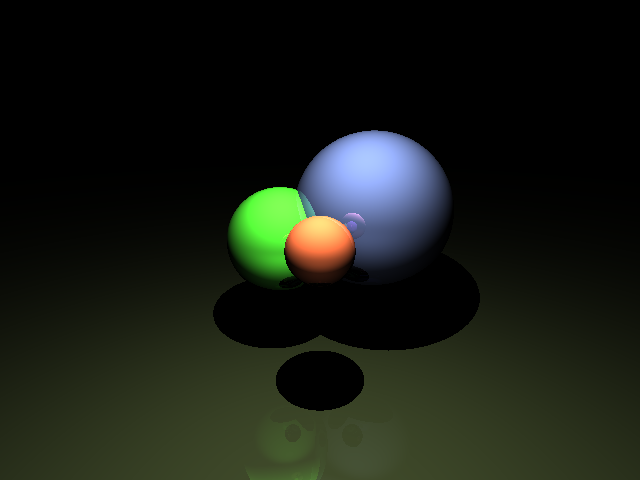
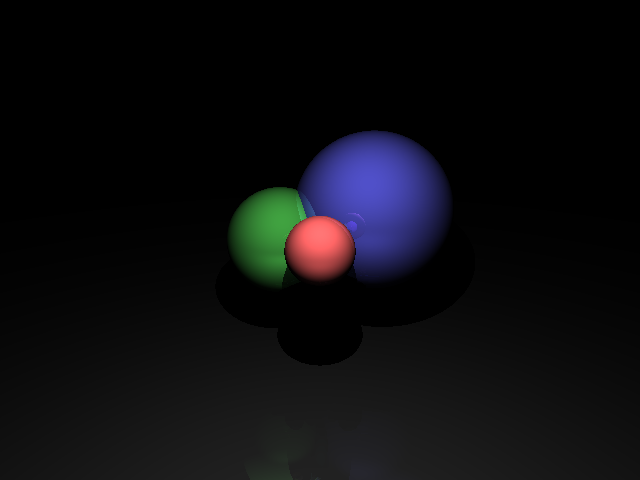
调整渲染示例中的场景参数

diff --git a/Test/Example/WhittedIntegrator/Main.cpp b/Test/Example/WhittedIntegrator/Main.cpp
@@ -28,7 +28,7 @@ int main()
     DiffuseMaterial matRed(  { 3.0f, 1.2f, 1.2f }),
                     matGreen({ 1.2f, 3.0f, 1.2f }),
                     matBlue( { 1.2f, 1.2f, 3.0f }),
-                    matWhite({ 1.2f, 1.2f, 1.2f });
+                    matWhite({ 1.0f, 1.0f, 1.0f });
 
     Sphere sphGround(1e5), sphRed(0.2), sphGreen(0.4), sphBlue(0.6);
 
@@ -37,7 +37,7 @@ int main()
                    entGreen (&sphGreen,  &matGreen, Transform(Mat4r::Translate({ 0.0, 0.3, 0.0 }))),
                    entBlue  (&sphBlue,   &matBlue,  Transform(Mat4r::Translate({ 0.1, -0.4, 0.2 })));
 
-    PointLight lightSkyblue({ 6.0f, 7.0f, 4.0f }, { -1.5, 0.0, 2.0 });
+    PointLight lightSkyblue({ 3.0f, 3.0f, 3.0f }, { -2.0, 0.0, 1.5 });
 
     SceneView scene;
     scene.camera = &camera;

diff --git a/Test/Example/AmbientIntegrator/Main.cpp b/Test/Example/AmbientIntegrator/Main.cpp
@@ -29,7 +29,7 @@ int main()
 
     Sphere sphGround(1e5), sphRed(0.2), sphGreen(0.4), sphBlue(0.6);
 
-    GeometryEntity entGround(&sphGround, &matWhite, Transform(Mat4r::Translate({ 0.0, 0.0, -1e5 - 5.0 }))),
+    GeometryEntity entGround(&sphGround, &matWhite, Transform(Mat4r::Translate({ 0.0, 0.0, -1e5 - 1.0 }))),
                    entRed   (&sphRed,    &matRed,   Transform(Mat4r::Translate({ -0.8, 0.0, 0.2 }))),
                    entGreen (&sphGreen,  &matGreen, Transform(Mat4r::Translate({ 0.0, 0.3, 0.0 }))),
                    entBlue  (&sphBlue,   &matBlue,  Transform(Mat4r::Translate({ 0.1, -0.4, 0.2 })));
